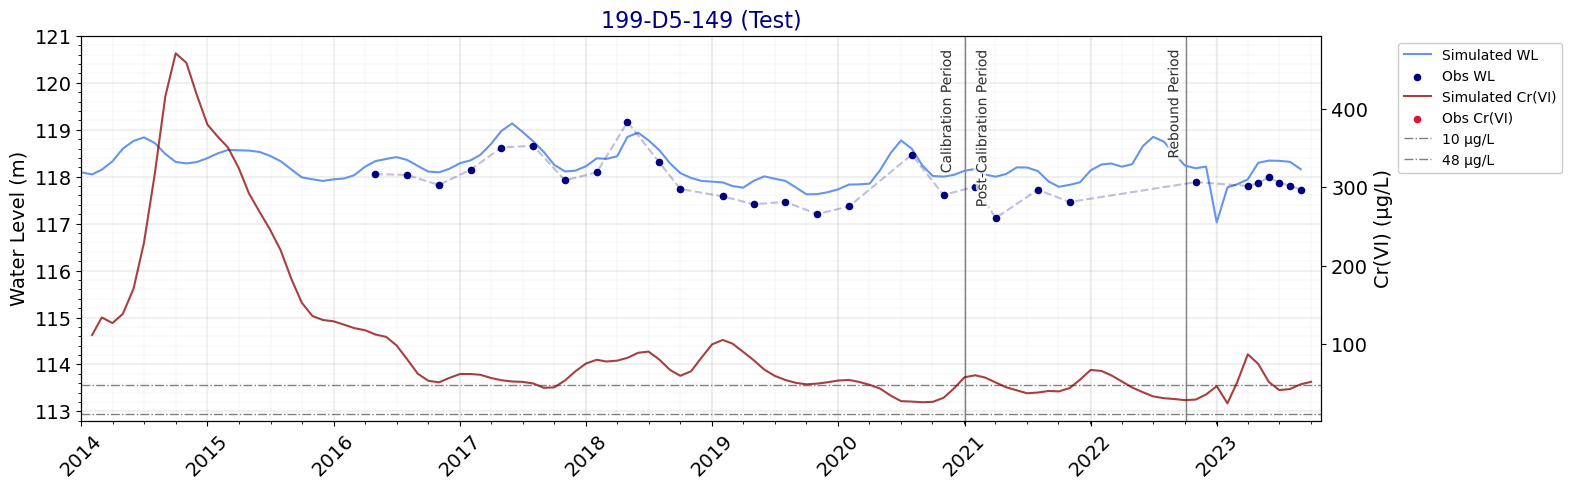
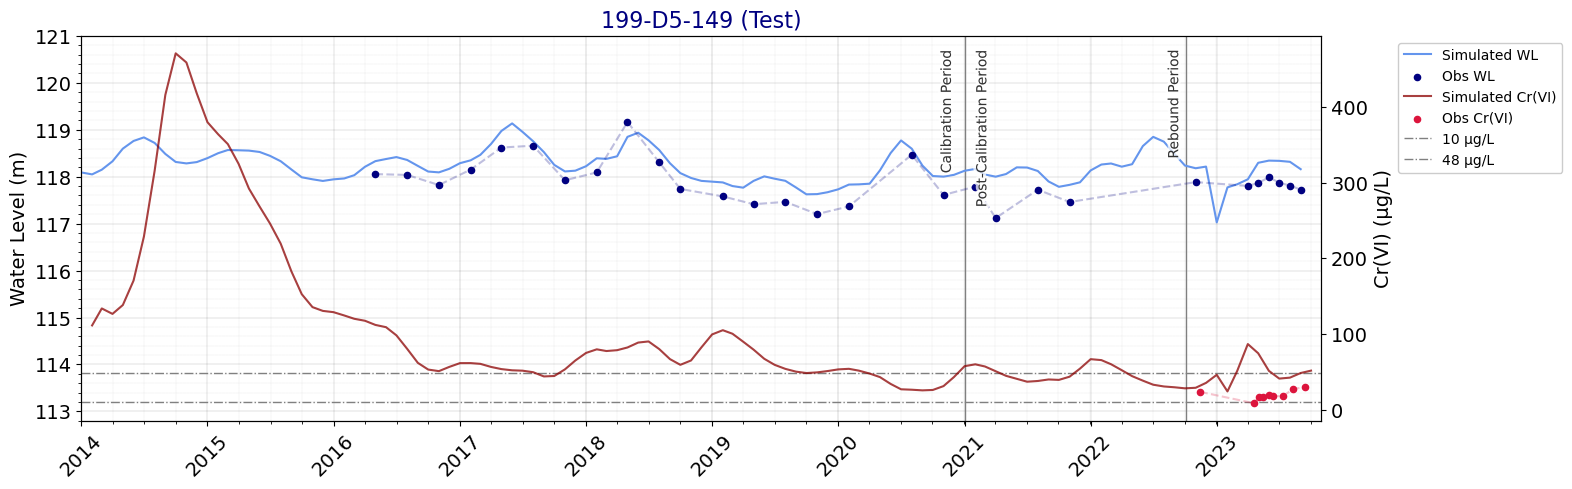
updated WLs without outliers and updated obs Cr(VI) for the rebound period, not yet for the 2014-2022

diff --git a/scripts/py21_concentration_vs_WLs_100D.py b/scripts/py21_concentration_vs_WLs_100D.py
@@ -844,7 +844,7 @@ if __name__ == "__main__":
     ### Observed CONC for 2014 to 2021, and 2021 - 2023:
     # hpham: Need update (Robin)
     crvi_meas_2014 = pd.read_csv(os.path.join(chemdir, '2014to2020', 'Cr_obs_avg_bySPs.csv'), index_col = 'SAMP_DATE', parse_dates = True)
-    crvi_meas_2021 = pd.read_csv(os.path.join(chemdir, '2021to2023', 'Cr_obs_v2.csv'), index_col = 'DATE', parse_dates = True) #NEEDS UPDATING UNTIL OCT 2023
+    crvi_meas_2021 = pd.read_csv(os.path.join(chemdir, '2021to2023', '100D', 'Cr_obs_100D.csv'), index_col = 'DATE', parse_dates = True) # RW created this file on 12/18/2023
 
 
     ## If we want to use average WL or max concentration of layers, group here:
